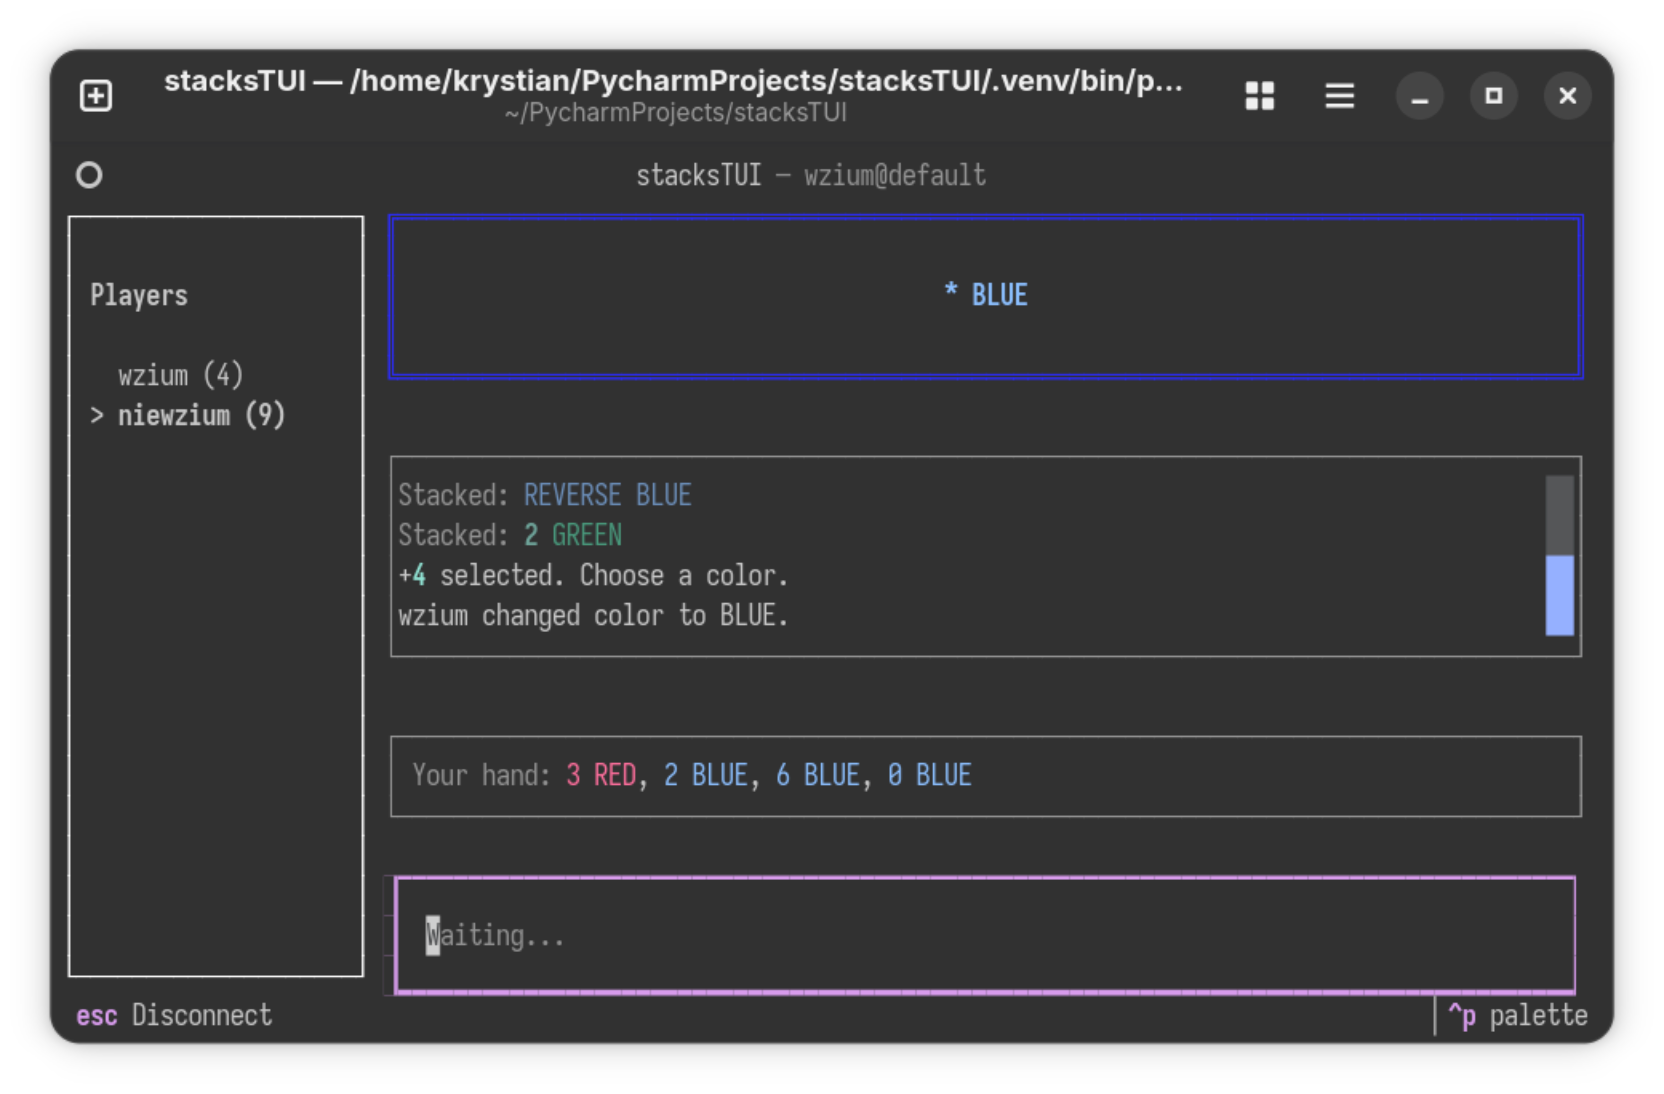
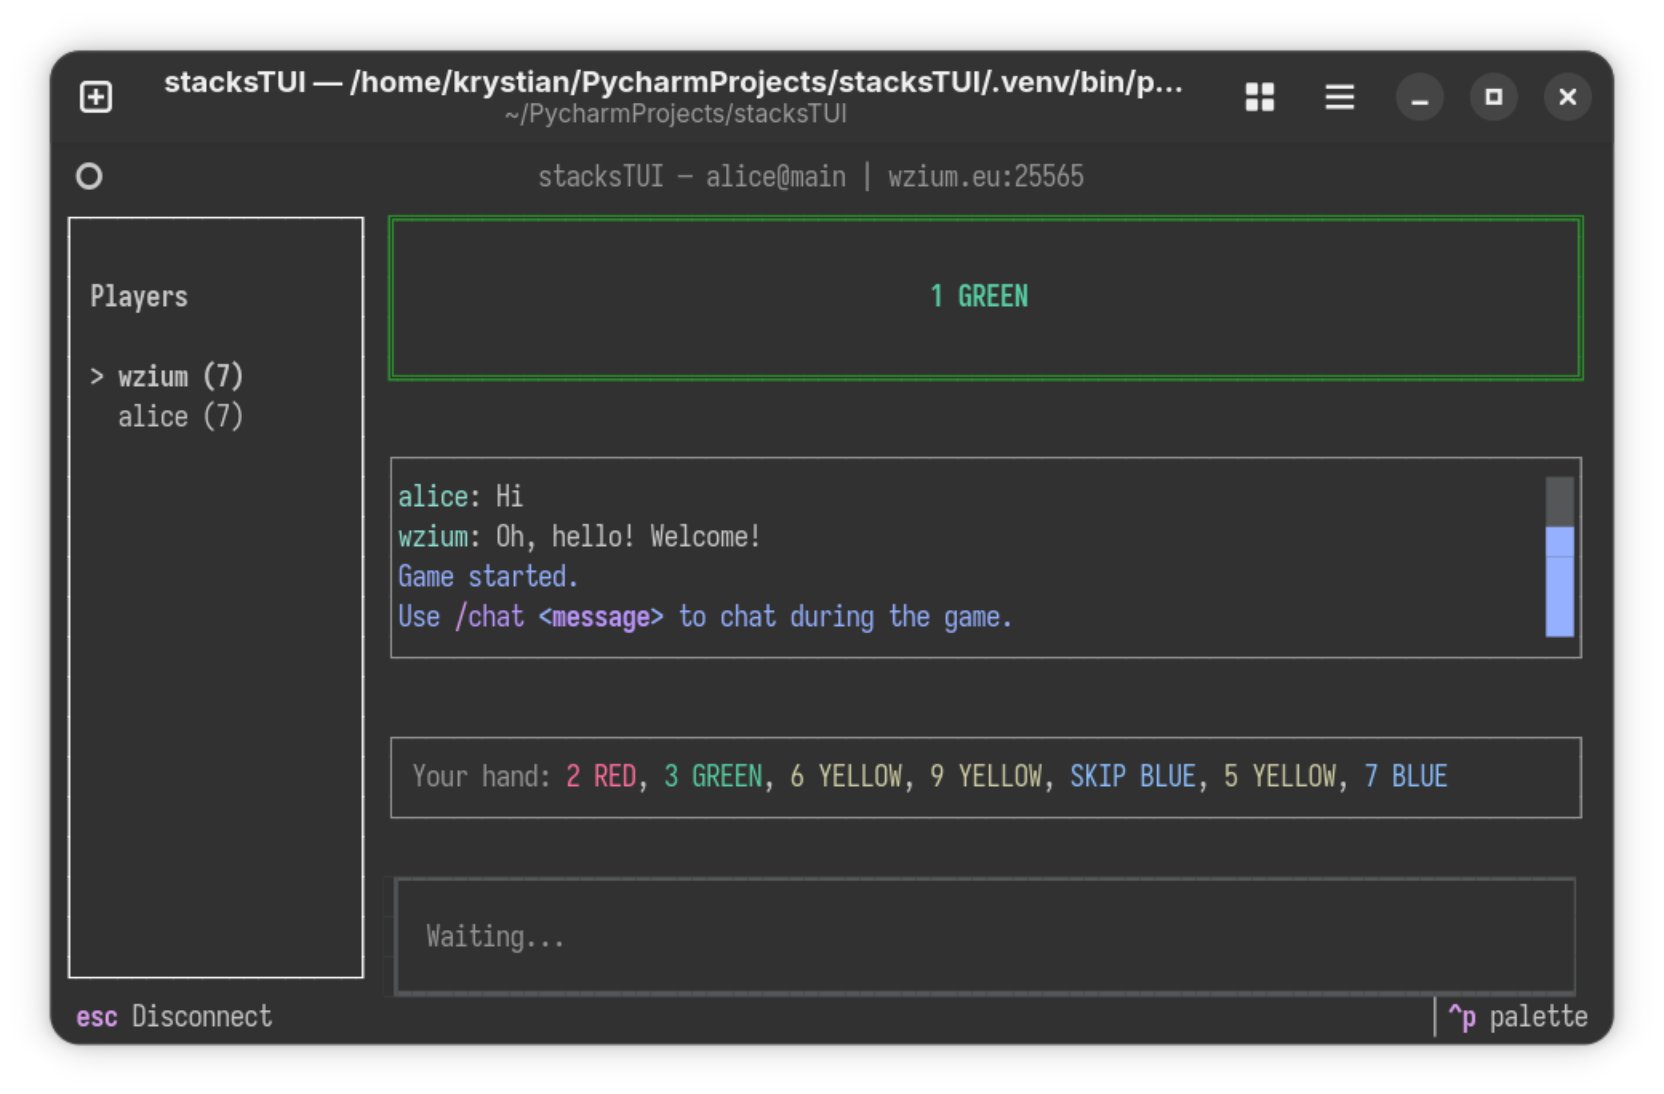
Add server info to top bar and update screenshot

diff --git a/src/stacksTUI/screens/multiplayer.py b/src/stacksTUI/screens/multiplayer.py
@@ -2,6 +2,7 @@ import asyncio
 import contextlib
 import json
 from typing import Any
+from urllib.parse import urlparse
 
 from rich.markup import escape
 from rich.text import Text
@@ -17,6 +18,17 @@ from stackslib.enums import CardColor
 from stackslib.game import Card
 from stackslib.protocol import card_from_dict, card_to_dict
 from stacksTUI.screens.rendering import hand_text
+
+
+def _server_label(uri: str) -> str:
+    parsed = urlparse(uri)
+    host = parsed.hostname
+    if host is None:
+        return uri
+    port = parsed.port
+    if port is None:
+        port = 443 if parsed.scheme == "wss" else 80
+    return f"{host}:{port}"
 
 
 class MultiplayerSetupScreen(Screen):
@@ -109,7 +121,7 @@ class MultiplayerGameScreen(Screen):
         yield Footer()
 
     def on_mount(self) -> None:
-        self.sub_title = f"{self.player_name}@{self.room}"
+        self.sub_title = f"{self.player_name}@{self.room} | {_server_label(self.uri)}"
         self._log(f"Connecting to {self.uri}...")
         self.run_network_client()
 